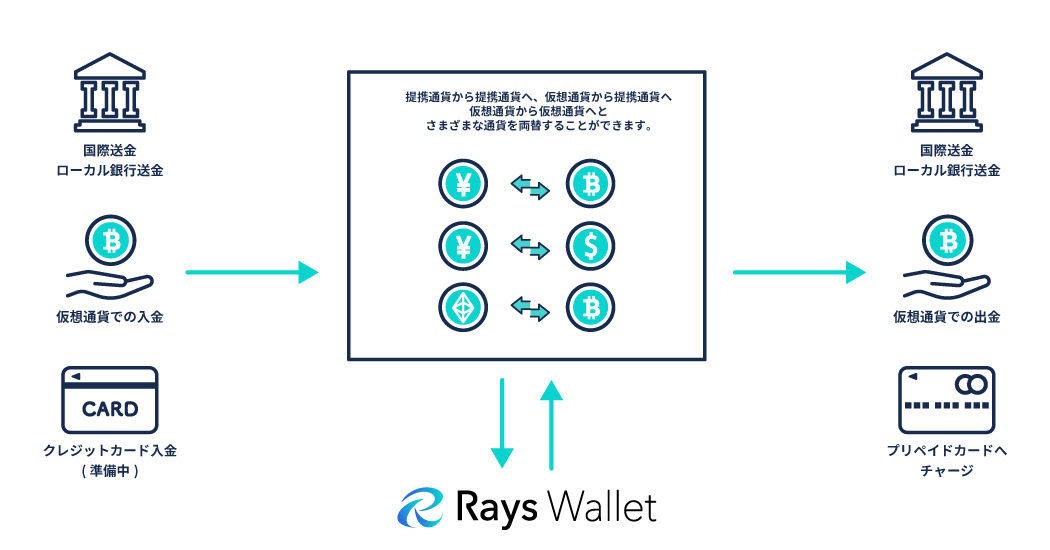
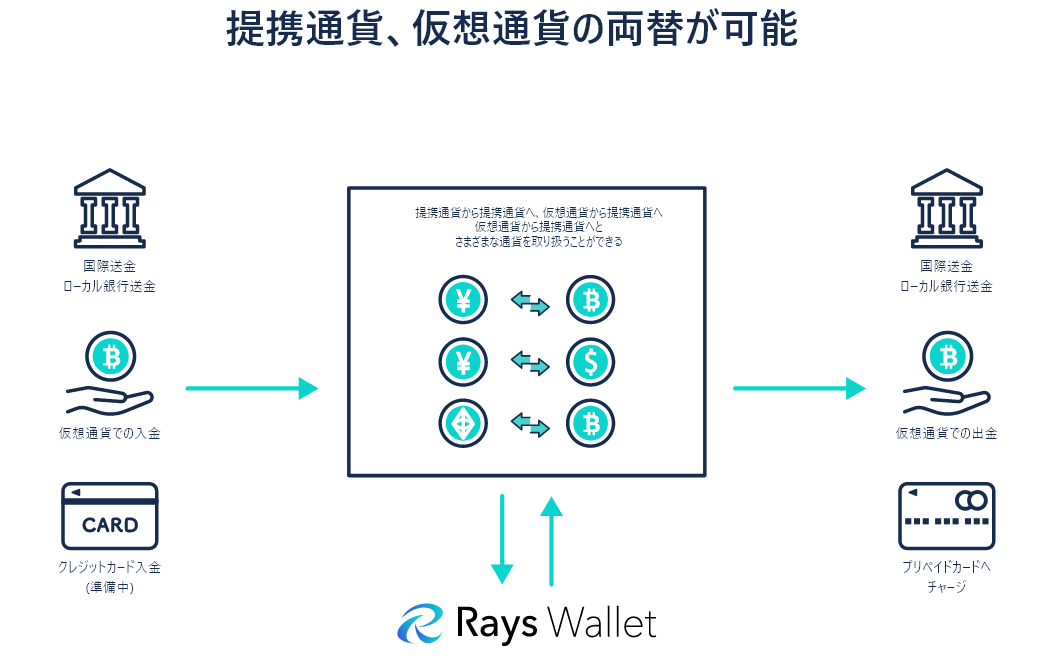
update

diff --git a/src/pages/kyc.tsx b/src/pages/kyc.tsx
@@ -148,23 +148,7 @@ const Component = () => {
                     <h3>01</h3>
                     <p>
                     Rays Walletにログイン後、右上の【My
-                      Account】から【口座アップグレード】を選択します。
-                    </p>
-                  </div>
-                </div>
-              </div>
-              <div id="flow_2">
-                <div className="flow_box">
-                  <figure className="flow_img">
-                    <img src="./img/kyc_img2.png" alt="口座開設トップ画面" />
-                  </figure>
-                  <div className="flow_text">
-                    <h3>02</h3>
-                    <p>
-                      【Standard口座】が選択されていることを確認して【次へ】をクリック。
-                      <br />
-                      <br />
-                      Standard口座は、Fiat通貨のご入金やご出金など、Fast口座よりも多くの機能が利用でき、送金などの各種手数料が割安となっています。また、利用金額の上限も高くなっているので幅広くご利用いただけます。月額手数料は無料です。
+                      Account】から【KYC書類認証】を選択します。
                     </p>
                   </div>
                 </div>
@@ -178,9 +162,9 @@ const Component = () => {
                     />
                   </figure>
                   <div className="flow_text">
-                    <h3>03</h3>
+                    <h3>02</h3>
                     <p>
-                      本人確認提出書類と同じ内容である必要があるため、必要な場合は変更。変更内容を全て入力しましたら、【変更】をクリック
+                      本人確認提出書類と同じ内容である必要があるため、必要な場合は変更。変更内容を全て入力しましたら、【情報を更新する】をクリック
                     </p>
                   </div>
                 </div>
@@ -196,7 +180,7 @@ const Component = () => {
                   <div className="flow_text">
                     <h3>04</h3>
                     <p>
-                      入力内容に誤りがないか確認をし、間違いがありましたら【戻る】ボタンで入力画面に戻ります。誤りがなければ、【次へ】をクリック。
+                      入力内容に誤りがないか確認をし、間違いがありましたら【戻る】ボタンで入力画面に戻ります。誤りがなければ、【更新】をクリック。
                     </p>
                   </div>
                 </div>
@@ -212,7 +196,7 @@ const Component = () => {
                   <div className="flow_text">
                     <h3>05</h3>
                     <p>
-                      ※印のついた箇所の入力とプルダウン選択で全て入力し、【次へ】をクリック。
+                      ※印のついた箇所の入力とプルダウン選択で全て入力し、【確認】をクリック。
                       <br />
                       <br />
                       ※住所は、現在お住まいで、郵便物を受け取れる情報をお願いします。
@@ -223,7 +207,7 @@ const Component = () => {
                   </div>
                 </div>
               </div>
-              <div id="flow_6">
+              {/* <div id="flow_6">
                 <div className="flow_box">
                   <figure className="flow_img">
                     <img
@@ -238,7 +222,7 @@ const Component = () => {
                     </p>
                   </div>
                 </div>
-              </div>
+              </div> */}
               <div id="flow_7">
                 <div className="flow_box">
                   <figure className="flow_img">
@@ -248,7 +232,7 @@ const Component = () => {
                     />
                   </figure>
                   <div className="flow_text">
-                    <h3>07</h3>
+                    <h3>06</h3>
                     <p>
                       本人確認書類として、ご本人証明書類と住所確認書類をそれぞれ【ファイル選択】からアップロード。
                       <br />

diff --git a/src/pages/about.tsx b/src/pages/about.tsx
@@ -50,7 +50,7 @@ const Component = () => {
                   <div className="about1">
                     <h3>運営会社</h3>
                     <p>
-                    Rays Walletは、〇〇社によって立ち上げられた新たなEウォレットブランドです。世界の基軸通貨に対応し、それぞれの地域におけるローカライズされたウォレットを目指していきます。さらにスピーディなアカウント開設に入出金、お支払い（決済）及び、国境の壁を超えた送金に対応いたします。「手数料が安く・スピーディな決済」をモットーにグローバルな範囲でご利用頂けるサービスをご提供いたします。
+                    Rays Walletは、VERTEX RAISE LIMITED社によって立ち上げられた新たなEウォレットブランドです。世界の基軸通貨に対応し、それぞれの地域におけるローカライズされたウォレットを目指していきます。さらにスピーディなアカウント開設に入出金、お支払い（決済）及び、国境の壁を超えた送金に対応いたします。「手数料が安く・スピーディな決済」をモットーにグローバルな範囲でご利用頂けるサービスをご提供いたします。
                     </p>
                   </div>
 
@@ -91,6 +91,10 @@ const Component = () => {
                           <tbody>
                             <tr>
                               <th>会社名</th>
+                              <td>VERTEX RAISE LIMITED</td>
+                            </tr>
+                            <tr>
+                              <th>代表者名</th>
                               <td>ZHANG Xiaoxia</td>
                             </tr>
                             <tr>
@@ -99,7 +103,7 @@ const Component = () => {
                             </tr>
                           </tbody>
                         </table>
-                        <h4>パートナー</h4>
+                        <h4>パートナー制度</h4>
                         <p id="partner">
                           <img
                             src="./img/pesoforward_logo.png"

diff --git a/src/pages/terms.tsx b/src/pages/terms.tsx
@@ -163,7 +163,7 @@ const Component = () => {
                     <h3>8.通貨交換</h3>
                     <ol>
                       <li>
-                        8.1 本規約を遵守した場合、フィアット交換および暗号通貨交換に関連するサービスを提供する本サイトにアクセスする限定的な権利が付与されます。本サイトにアクセスる権利は、非独占的、譲渡不能、取消可能、限定的であり、制限と義務に従うものとします。本規約のいかなる条項も、本サイトまたは本サービスのライセンス（本項に定めるものを除く）、権利、タイトル、または所有権をお客様に与えるものではありません。
+                        8.1 本規約を遵守した場合、フィアット交換および暗号通貨交換に関連するサービスを提供する本サイトにアクセスする限定的な権利が付与されます。本サイトにアクセスする権利は、非独占的、譲渡不能、取消可能、限定的であり、制限と義務に従うものとします。本規約のいかなる条項も、本サイトまたは本サービスのライセンス（本項に定めるものを除く）、権利、タイトル、または所有権をお客様に与えるものではありません。
                       </li>
                       <li>
                         8.2 当社は、外国為替市場のもとで、本サイト上の別の通貨単位に対する通貨単位の相対的な価値を提供します。レート提供者が提供する交換レートに同意しない場合、お客様は交換を終了することができます。交換が完了した時点で、お客様は交換レートに合意したものとみなされ、その取り消しを要求することはできません。

diff --git a/src/pages/swallet.tsx b/src/pages/swallet.tsx
@@ -222,7 +222,7 @@ const Component = () => {
                 </div> */}
               </div>
             </div>
-            {/* <div id="tiger_about2">
+            <div id="tiger_about2">
               <div id="tiger_about_inner2">
                 <h3>提携通貨、仮想通貨の両替が可能</h3>
                 <figure className="about_img_pc">
@@ -240,7 +240,7 @@ const Component = () => {
                   />
                 </figure>
               </div>
-            </div> */}
+            </div>
             <div id="tiger_about3">
               <div id="tiger_about_inner3">
                 <h3>Rays Wallet</h3>
@@ -431,10 +431,10 @@ const Component = () => {
                     </tbody>
                   </table>
                 </div>
-                {/* <h3>口座タイプにおける機能比較</h3>
+                <h3>口座タイプにおける機能比較</h3>
                 <div id="table_box">
                   <PriceTable />
-                </div> */}
+                </div>
               </div>
             </div>
             <div id="tiger_about5">

diff --git a/src/pages/tokushouhou.tsx b/src/pages/tokushouhou.tsx
@@ -56,7 +56,7 @@ const Component = () => {
                         </div>
                       </div>
                       <div className="tbl-row">
-                        <div className="tbl-cell tbl-th-cell">代表者</div>
+                        <div className="tbl-cell tbl-th-cell">代表者名</div>
                         <div className="tbl-cell">ZHANG Xiaoxia</div>
                       </div>
                       <div className="tbl-row">
@@ -96,8 +96,8 @@ const Component = () => {
                           ホームページURL
                         </div>
                         <div className="tbl-cell">
-                          <a href="https://unoun.co.jp/" title="UNOUN">
-                            https://unoun.co.jp/
+                          <a href="https://www.vertex-raise.com/" title="UNOUN">
+                            https://www.vertex-raise.com/
                           </a>
                         </div>
                       </div>

diff --git a/public/css/style.css b/public/css/style.css
@@ -3788,11 +3788,17 @@ h2:after {
   background-size: 70px auto;
   background-position: 0% 25px;
 }
+#atm_icon img {
+  display: none;
+}
 #pay_icon {
   background-image: url(../img/debit_icon2.png);
   background-size: 70px auto;
   background-repeat: no-repeat;
   background-position: 0% 30px;
+}
+#pay_icon img {
+  display: none;
 }
 #net_icon {
   background-image: url(../img/debit_icon3.png);
@@ -3800,11 +3806,17 @@ h2:after {
   background-size: 70px auto;
   background-position: 0% 20px;
 }
+#net_icon img {
+  display: none;
+}
 #travel_icon {
   background-image: url(../img/debit_icon4.png);
   background-repeat: no-repeat;
   background-size: 70px auto;
   background-position: 0% 20px;
+}
+#travel_icon img {
+  display: none;
 }
 #api1 {
   background-image: url(../img/sistem_icon1.png);

diff --git a/src/pages/index.tsx b/src/pages/index.tsx
@@ -146,8 +146,7 @@ const Component = () => {
                 {/* <div id="content_1">
                   <div id="content_1_inner">
                     <p style={{ width: 'auto' }}>
-                      Rays
-                      Walletのアカウント一つで、提携の通貨と仮想通貨の両方を保有、管理することができます。
+                      Rays Walletのアカウント一つで、提携の通貨と仮想通貨の両方を保有、管理することができます。
                     </p>
                     <h4>取り扱い通貨：</h4>
                     <div id="content_1_list">

diff --git a/src/components/Molecules/PriceTable.tsx b/src/components/Molecules/PriceTable.tsx
@@ -5,7 +5,7 @@ const Component = ({ ...props }) => {
   return (
     <>
       {/* DISPLAY PC ONLY */}
-      <table className="tayp_table table_xl">
+      <table className="tayp_table">
         <tbody>
           <tr className="tayp_title">
             <th></th>
@@ -43,8 +43,6 @@ const Component = ({ ...props }) => {
             <td>ご利用可能な法定通貨</td>
             <td>
               JPY/USD/EUR/PHP
-              <br />
-              エクスチェンジのみ{' '}
             </td>
             <td>JPY/USD/EUR/PHP</td>
             <td className="non_line">JPY/USD/EUR/PHP</td>

diff --git a/src/components/Layouts/Header.tsx b/src/components/Layouts/Header.tsx
@@ -85,7 +85,7 @@ const Component = ({ ...props }) => {
               </li>
               <li id="n_partner">
                 <Link href="/partner">
-                  <a>パートナー</a>
+                  <a>パートナー制度</a>
                 </Link>
               </li>
               <li>
@@ -138,7 +138,7 @@ const Component = ({ ...props }) => {
           </li>
           <li>
             <Link href="/partner">
-              <a>パートナー</a>
+              <a>パートナー制度</a>
             </Link>
           </li>
           <li>

diff --git a/src/pages/sitemap.tsx b/src/pages/sitemap.tsx
@@ -73,7 +73,7 @@ const Component = () => {
                       </li>
                       <li>
                         <Link href="/partner">
-                          <a>パートナー</a>
+                          <a>パートナー制度</a>
                         </Link>
                       </li>
                     </ul>

diff --git a/src/components/Layouts/Footer.tsx b/src/components/Layouts/Footer.tsx
@@ -83,7 +83,7 @@ const Component = ({ ...props }) => {
                 </li>
                 <li>
                   <Link href="/partner">
-                    <a>パートナー</a>
+                    <a>パートナー制度</a>
                   </Link>
                 </li>
                 <li>
